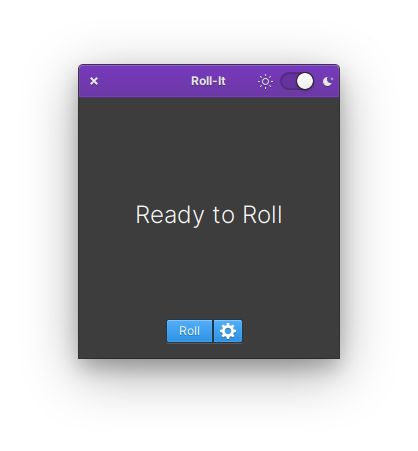
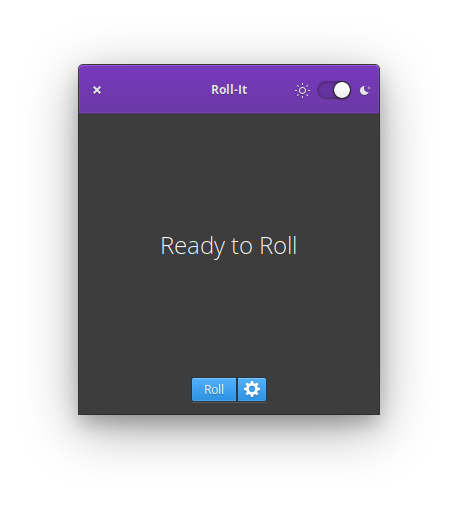
Visual updates (#32)
* Fix spacing in some elements
* Code cleanups

Changed region(s): [[0.1555, 0.1242, 0.8397, 0.8692], [0.311, 0.4346, 0.6842, 0.5277]]

diff --git a/data/styles/global.css b/data/styles/global.css
@@ -13,13 +13,13 @@
  *  You should have received a copy of the GNU General Public License
  *  along with this program.  If not, see <https://www.gnu.org/licenses/>.
  *
- * Authored by Patrick Csikos <akzeldev@fastmail.com>
+ * Authored by Patrick Csikos <zelikos@pm.me>
  */
 
- @define-color colorPrimary @GRAPE_700;
- @define-color colorAccent @GRAPE_500;
- @define-color textColorPrimary shade (white, 0.9);
- @define-color textColorPrimaryShadow alpha (shade (@colorPrimary, 0.5), 0.6);
+@define-color colorPrimary @GRAPE_700;
+@define-color colorAccent @GRAPE_500;
+@define-color textColorPrimary shade (white, 0.9);
+@define-color textColorPrimaryShadow alpha (shade (@colorPrimary, 0.5), 0.6);
 
 .result-label {
     font-size: 8em;
